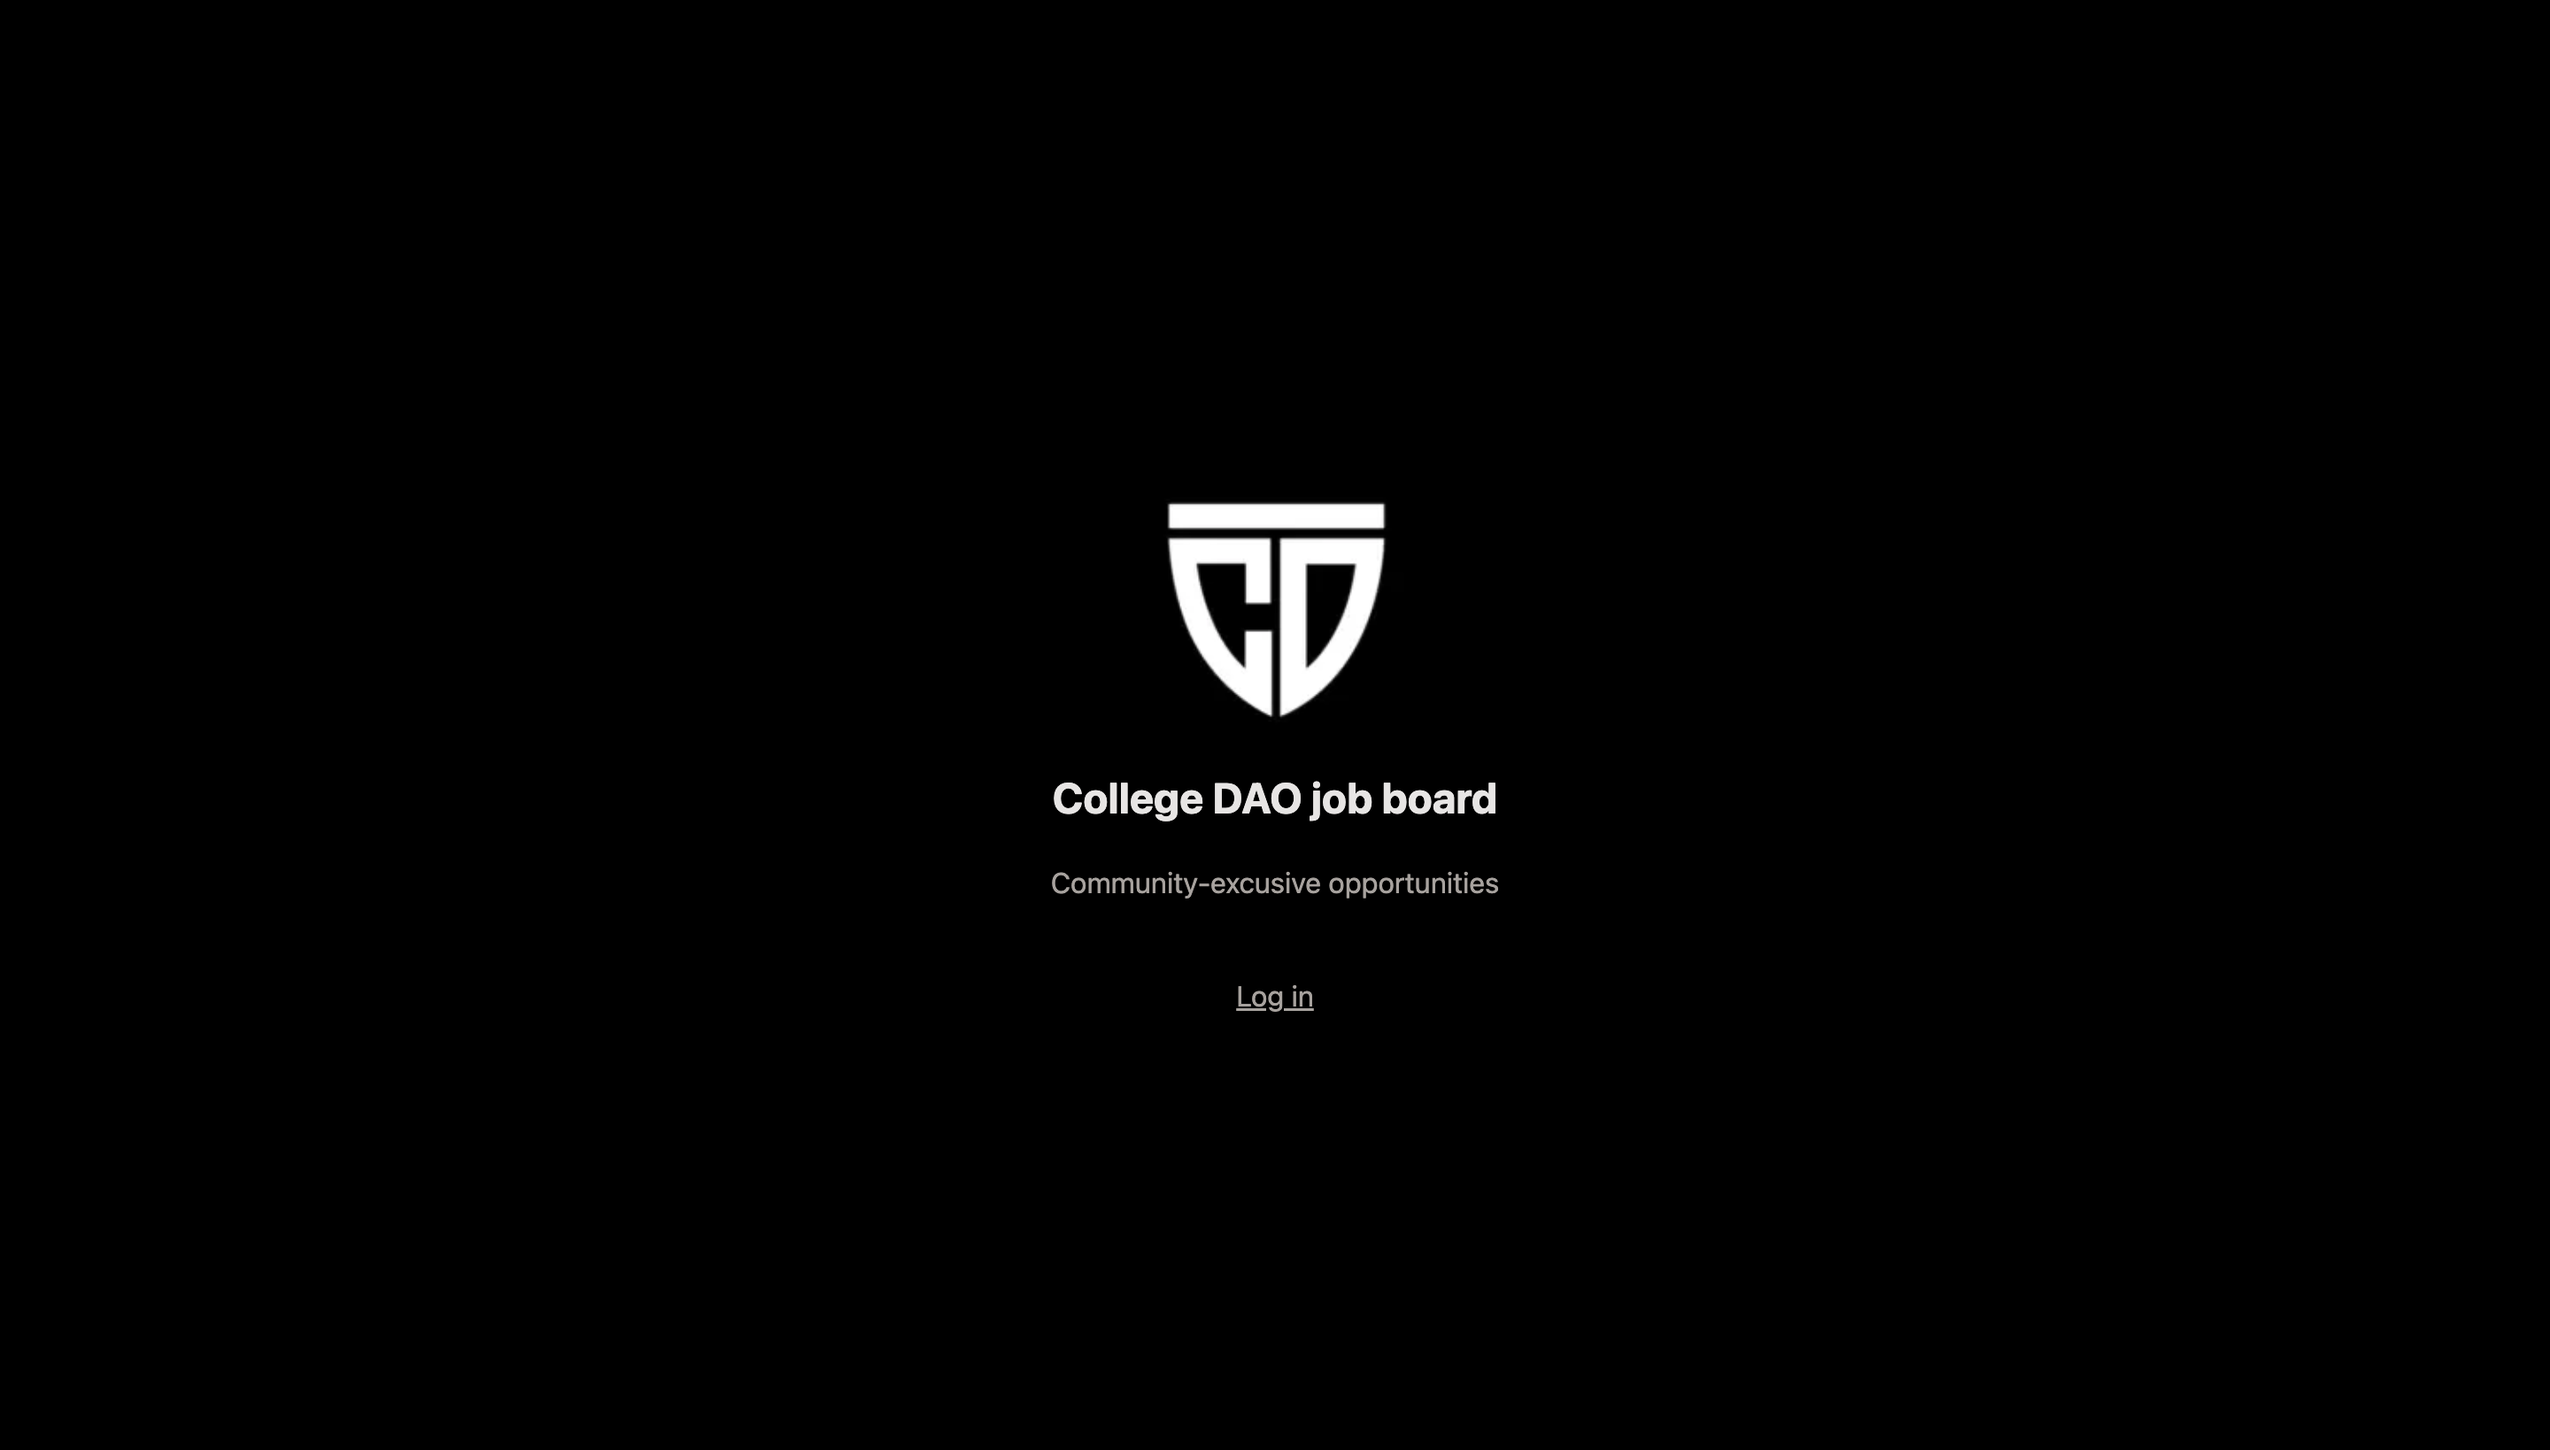
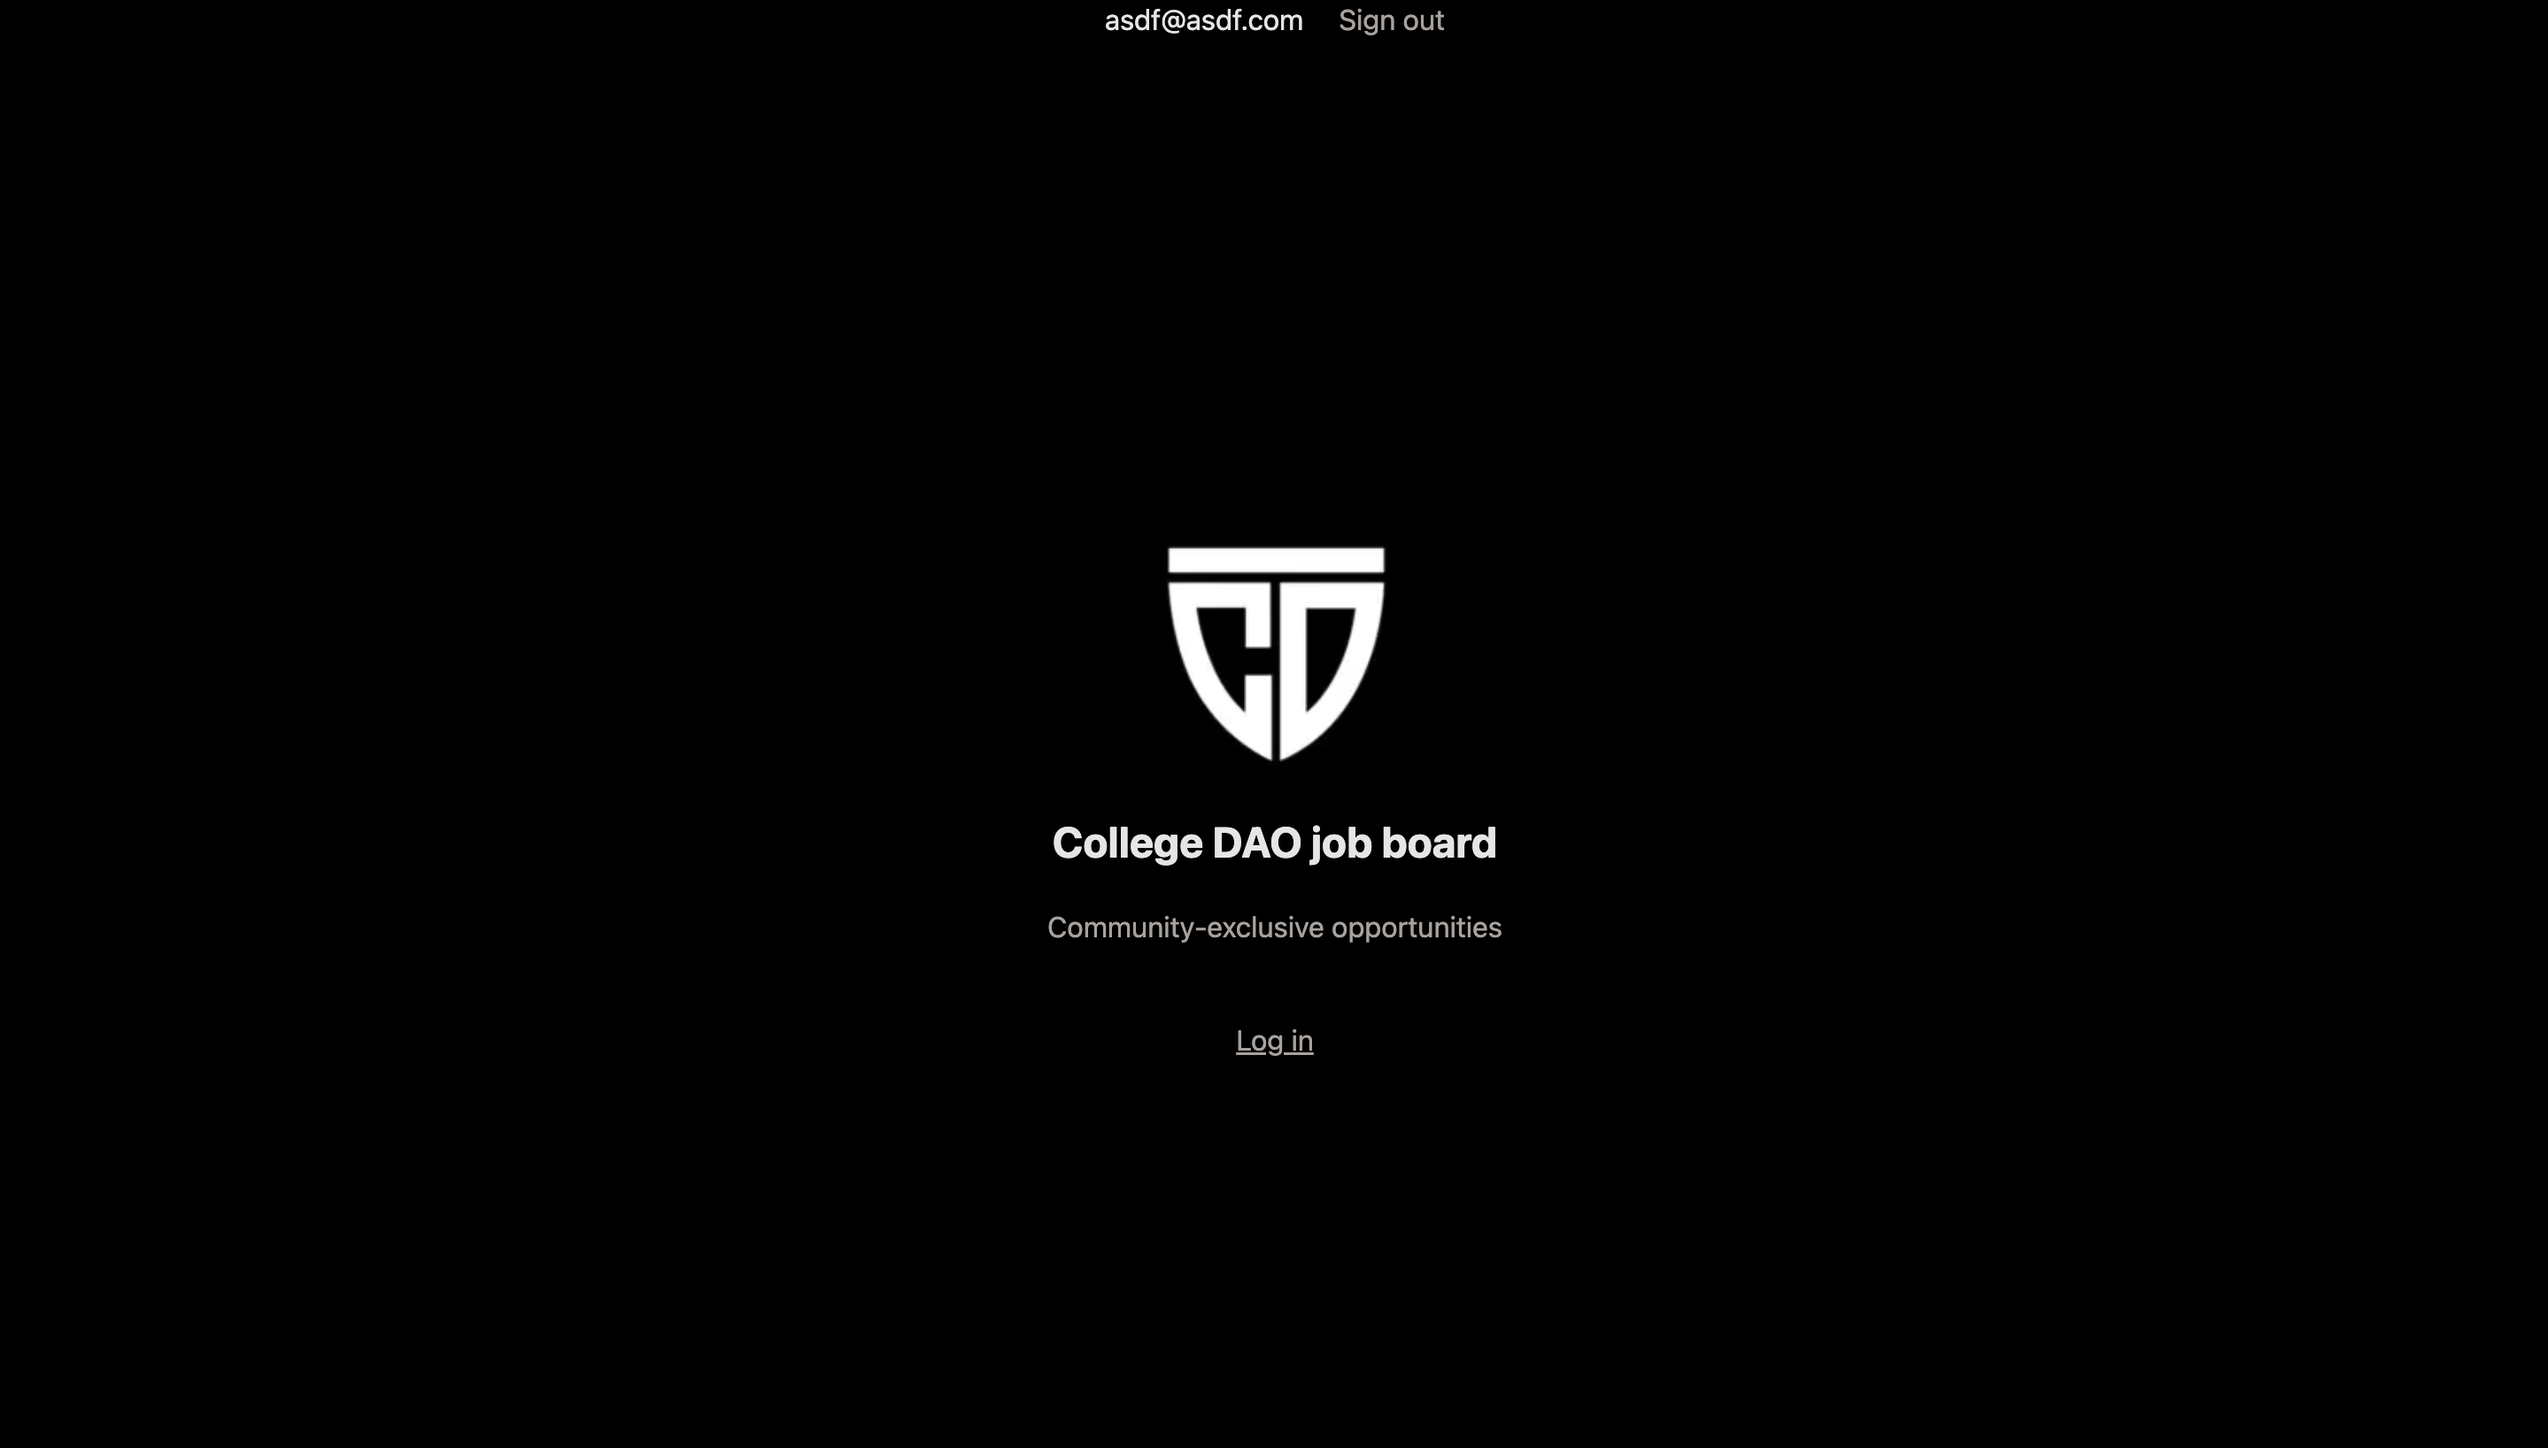
add dashboard

diff --git a/app/dashboard/page.tsx b/app/dashboard/page.tsx
@@ -1,0 +1,43 @@
+'use client'
+
+import { ApplicationType } from "interfaces/main";
+import { useState, useEffect } from "react";
+
+export default function Home() {
+  return (
+    <div className="flex flex-col h-screen w-screen justify-center items-center bg-black">
+      <h1 className="text-stone-200">Admin dashboard</h1>
+      <ApplicationList />
+    </div>
+  );
+}
+
+function ApplicationList() {
+  const [applications, setApplications] = useState<ApplicationType[]>([]);
+
+  useEffect(() => {
+    fetch("/api/application/all")
+      .then((res) => res.json())
+      .then((res) => setApplications(res));
+  }, []);
+
+  return (
+    <div className="flex flex-col w-screen justify-center items-center bg-black">
+      <h1 className="text-stone-200">Manage applications</h1>
+      {applications.map((application) => (
+        <Application key={application.id} application={application} />))}
+    </div>
+  );
+}
+
+function Application({ application }: { application: ApplicationType }) {
+
+  return (
+    <div className="border-2 border-stone-200 text-stone-200 rounded-md p-2">
+      <p>User: {application.userId}</p>
+      <p>Job: {application.jobId}</p>
+      <p>Status: {application.status}</p>
+      <p>Created at: {application.createdAt}</p>
+    </div>
+  )
+}

diff --git a/pages/api/application/user.ts b/pages/api/application/user.ts
@@ -1,0 +1,42 @@
+import prisma from "@/lib/prisma";
+import { NextApiRequest, NextApiResponse } from "next";
+
+// POST /api/apply
+// creates an entry in Applications table for a user and job
+export default async function handler(
+  req: NextApiRequest,
+  res: NextApiResponse
+) {
+  if (req.method == "POST") {
+    console.log(req.body);
+    const { jobIds, userId } = req.body;
+
+    jobIds.forEach(async (jobId: number) => {
+      const application = await prisma.application.create({
+        data: {
+          jobId: jobId,
+          userId: userId,
+        }
+      });
+      res.status(200).json(application);
+    });
+  }
+  if (req.method == "GET") {
+    const { userId } = req.body;
+    // get the first 5 applications with this user id
+    const userApplications = await prisma.application.findMany({
+      where: {
+        userId: userId,
+      },
+      take: 5,
+    });
+    res.status(200).json(userApplications);
+  }
+  // delete all applications
+  if (req.method == "DELETE") {
+    const deletedApplications = await prisma.application.deleteMany({
+    });
+    console.log(deletedApplications);
+    res.status(200).json(deletedApplications);
+  }
+}

diff --git a/app/account/page.tsx b/app/account/page.tsx
@@ -5,19 +5,22 @@ import { useState, useEffect } from "react";
 import { JobType } from "../../interfaces/main";
 import { ApplicationType } from "../../interfaces/main";
 
+//  TODO: form for account information
+
 export default function AccountHome() {
   // const defaultApplication = { id: -1 };
   const [applications, setApplications] = useState<ApplicationType[]>([]);
 
   useEffect(() => {
-    fetch("/api/application").then((res) => res.json()).then((res) => setApplications(res));
+    fetch("/api/application/user")
+      .then((res) => res.json())
+      .then((res) => setApplications(res));
   }, []);
   console.log("applications", applications);
 
   return (
     <div className="bg-black">
       <div className="flex flex-col space-y-5 h-screen w-screen items-center justify-center">
-
         <h1 className="text-stone-200 ">5 jobs I have applied to:</h1>
         <div className="flex flex-col space-y-1 text-stone-200">
           {applications.map((application) => <p className="text-stone-200" key={application.id}>Job with id {application.jobId}</p>)}

diff --git a/pages/api/application/all.ts b/pages/api/application/all.ts
@@ -7,29 +7,21 @@ export default async function handler(
   req: NextApiRequest,
   res: NextApiResponse
 ) {
-  if (req.method == "POST") {
-    console.log(req.body);
-    const { jobIds, userId } = req.body;
-
-    jobIds.forEach(async (jobId: number) => {
-      const application = await prisma.application.create({
-        data: {
-          jobId: jobId,
-          userId: userId,
-        }
-      });
-      res.status(200).json(application);
-    });
-  }
   if (req.method == "GET") {
     const { userId } = req.body;
     // get the first 5 applications with this user id
     const userApplications = await prisma.application.findMany({
       where: {
         userId: userId,
-      },
-      take: 5,
+      }
     });
     res.status(200).json(userApplications);
+  }
+  // delete all applications
+  if (req.method == "DELETE") {
+    const deletedApplications = await prisma.application.deleteMany({
+    });
+    console.log(deletedApplications);
+    res.status(200).json(deletedApplications);
   }
 }

diff --git a/app/applications/page.tsx b/app/applications/page.tsx
@@ -1,0 +1,32 @@
+'use client'
+
+export default function Home() {
+  function handleDeleteApplications() {
+    fetch("/api/application/all",
+      {
+        method: "DELETE",
+        headers: {
+          "Content-Type": "application/json",
+        },
+      }
+    )
+      .then(res => res.json())
+      .catch((error) => {
+        console.error('Error:', error);
+      });
+  }
+  return (
+    <div className="flex flex-col h-screen w-screen justify-center items-center bg-black">
+      <button className="bg-white" onClick={handleDeleteApplications}>Delete all applications</button>
+    </div>
+  );
+}
+
+// dashboard 
+// Manage applications
+// pick the best, send them to the employers
+
+// Student information
+// resume, socials, contact details, location preference, declarations (veteren, disability, etc)
+
+// design example at https://web3.career/ and https://cryptocurrencyjobs.co/web3/ 

diff --git a/interfaces/main.tsx b/interfaces/main.tsx
@@ -2,6 +2,14 @@ export interface UserType {
   id?: number;
   email?: string,
   password?: string,
+  linkedin?: string,
+  github?: string,
+  website?: string,
+  firstName?: string,
+  lastName?: string,
+  currentSchool?: string,
+  resume?: string, // link to resume
+  graduationYear?: number,
 }
 
 export interface JobType {
@@ -9,7 +17,8 @@ export interface JobType {
   company?: string,
   logo?: string,
   title?: string,
-  category?: string,
+  category?: string, // software, hardware, design, marketing, etc
+  type?: string, // full-time, part-time, internship
   city?: string,
   description?: string,
   createdAt?: string,
@@ -20,6 +29,5 @@ export interface ApplicationType {
   jobId?: number,
   userId?: number,
   createdAt?: string,
+  status?: string, // submitted, sent, accepted, rejected
 }
-
-

diff --git a/app/board/page.tsx b/app/board/page.tsx
@@ -6,7 +6,6 @@ import DetailView from "../../components/board/detail-view";
 import Job from "../../components/board/job";
 import { JobType } from "../../interfaces/main";
 
-
 export default function Home() {
   function handleDeleteJobs() {
     fetch("/api/job/edit",
@@ -77,7 +76,8 @@ function JobBoard({ }) {
   }
 
   const handleCreateApplication = () => {
-    const res = fetch("/api/application/apply",
+
+    const res = fetch("/api/application/user",
       {
         method: "POST",
         headers: {

diff --git a/app/layout.tsx b/app/layout.tsx
@@ -8,11 +8,7 @@ const inter = Inter({
   subsets: ['latin']
 });
 
-export default async function RootLayout({
-  children,
-}: {
-  children: React.ReactNode;
-}) {
+export default async function RootLayout({ children }: { children: React.ReactNode; }) {
   const AuthStatusDiv = await AuthStatus();
   return (
     <html lang="en">

diff --git a/app/page.tsx b/app/page.tsx
@@ -18,7 +18,7 @@ export default function Home() {
             College DAO job board
           </h1>
           <p className="text-stone-400 mt-5">
-            Community-exlcusive opportunities
+            Community-exclusive opportunities
           </p>
         </div>
         <div className="flex space-x-3">

diff --git a/components/auth-status.tsx b/components/auth-status.tsx
@@ -18,3 +18,10 @@ export default async function AuthStatus() {
     </div>
   );
 }
+
+
+export async function authEmail() {
+  const session = await unstable_getServerSession();
+  console.log(session);
+  return session?.user?.email;
+}
